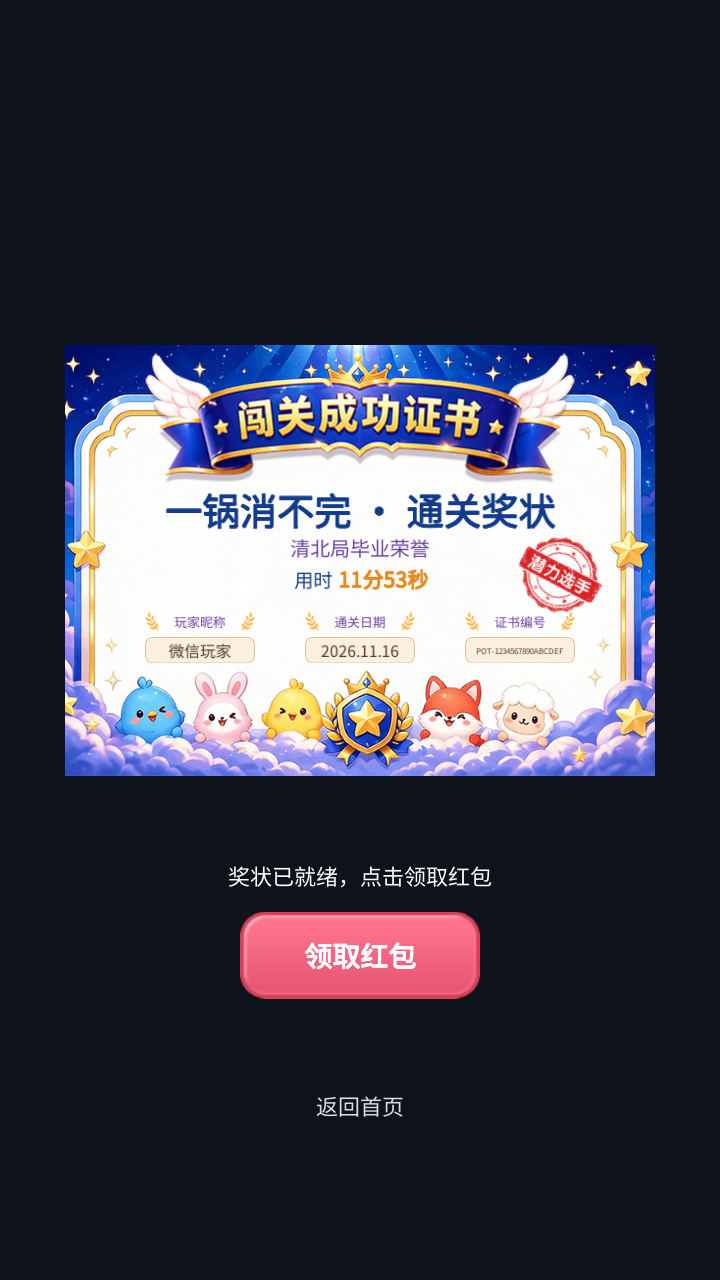
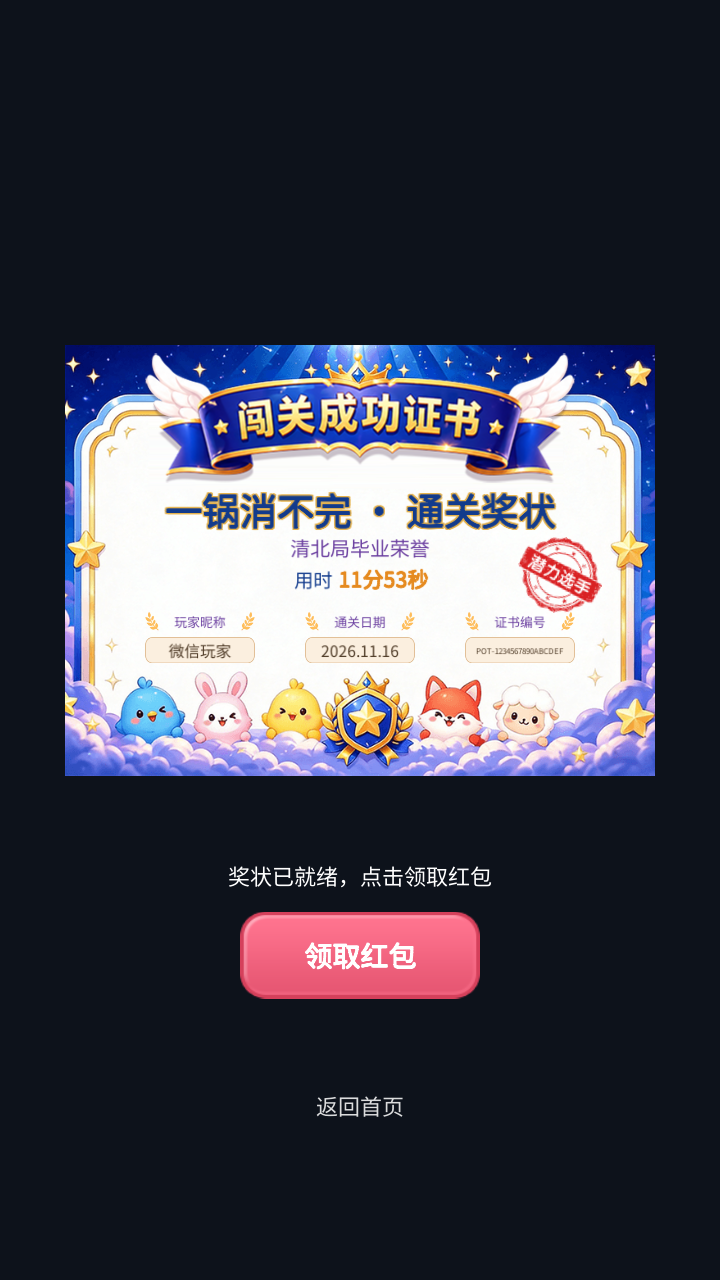
fix(pot): add fine gold outline to certificate heading

Changed region(s): [[0.55, 0.375, 0.7639, 0.4375], [0.2444, 0.375, 0.4889, 0.4375]]

diff --git a/Assets/Match3D/Editor/PotCertificateBuilder.cs b/Assets/Match3D/Editor/PotCertificateBuilder.cs
@@ -41,6 +41,12 @@ public static class PotCertificateBuilder {
         var gold=new Color32(229,138,31,255);var brown=new Color32(80,60,40,255);
         var main=Rect("Main info",v.card,0,-4.024f,500,160);v.mainGroup=main.gameObject.AddComponent<CanvasGroup>();
         v.title=CertificateLabel("Title",main,0,54.942f,540,48,37.3f,blue,true);
+        // Requested visual correction: the local Cocos prefab has no enabled dynamic outline.
+        // Keep a 1.25 layout-pixel gold edge even with the fractional font-size scale.
+        var titleOutline=v.title.gameObject.AddComponent<Outline>();
+        titleOutline.effectColor=new Color32(229,178,76,255);
+        float outlineWidth=1.25f/v.title.rectTransform.localScale.x;
+        titleOutline.effectDistance=new Vector2(outlineWidth,-outlineWidth);titleOutline.useGraphicAlpha=true;
         v.mode=CertificateLabel("Mode",main,0,16.893f,400,34,19.9f,purple);
         CertificateLabel("Duration caption",main,-46.612f,-14.83f,42,34,19.1f,blue,false,"用时");
         v.duration=CertificateLabel("Duration",main,23.107f,-14.83f,92,34,21,gold,true);

diff --git a/docs/validation/pot-certificate/README.md b/docs/validation/pot-certificate/README.md
@@ -30,3 +30,9 @@
 对照疯狂动物消 `Pre_certificate_big_item.prefab` 的实际 Label 参数修正：标题 #123B8C、37.3、加粗；档位 #6B3FA0、19.9；「用时」#123B8C、19.1；时间值 #E58A1F、21、加粗；底部标题 #6B3FA0、16×0.8；底部值 #503C28、18.7×0.8×0.55×1.9。按钮白色 28 加粗。恢复原底部坐标、字段尺寸及装饰。使用整数渲染字号配合局部缩放表示小数字号，仅底部动态长文本沿用原版缩小适配；仍使用项目现有系统中文字体策略，因此不同平台字形渲染可能略有差异。
 
 本次纯客户端修正，重新生成预制体、通过 Unity 77 项检查并更新全部截图；未改动服务端，未部署或上传。
+
+## 金色描边补充
+
+用户指出缺少金色文字描边。复核本地 Cocos 预制体、PreCertificateBigItem/LevelModal 运行时代码及 c951959d、3717b75a、ceb2f113 三个历史版本，动态奖状 Label 的 enableOutline 均为 false，无独立描边组件；横幅金字字效属于原图集内容。无法从这些本地版本确定用户所见版本的原始描边参数。
+
+按用户视觉反馈为主标题补充 #E5B24C 细金边（布局宽度 1.25），保留 #123B8C 字心；描边宽度补偿小数字号缩放，useGraphicAlpha 保证随标题透明度淡入。此参数为视觉修正，并非声称从原预制体恢复。Unity 编译和既有 77 项检查通过，本科/清北及三种屏幕截图已更新。未部署、未上传。
